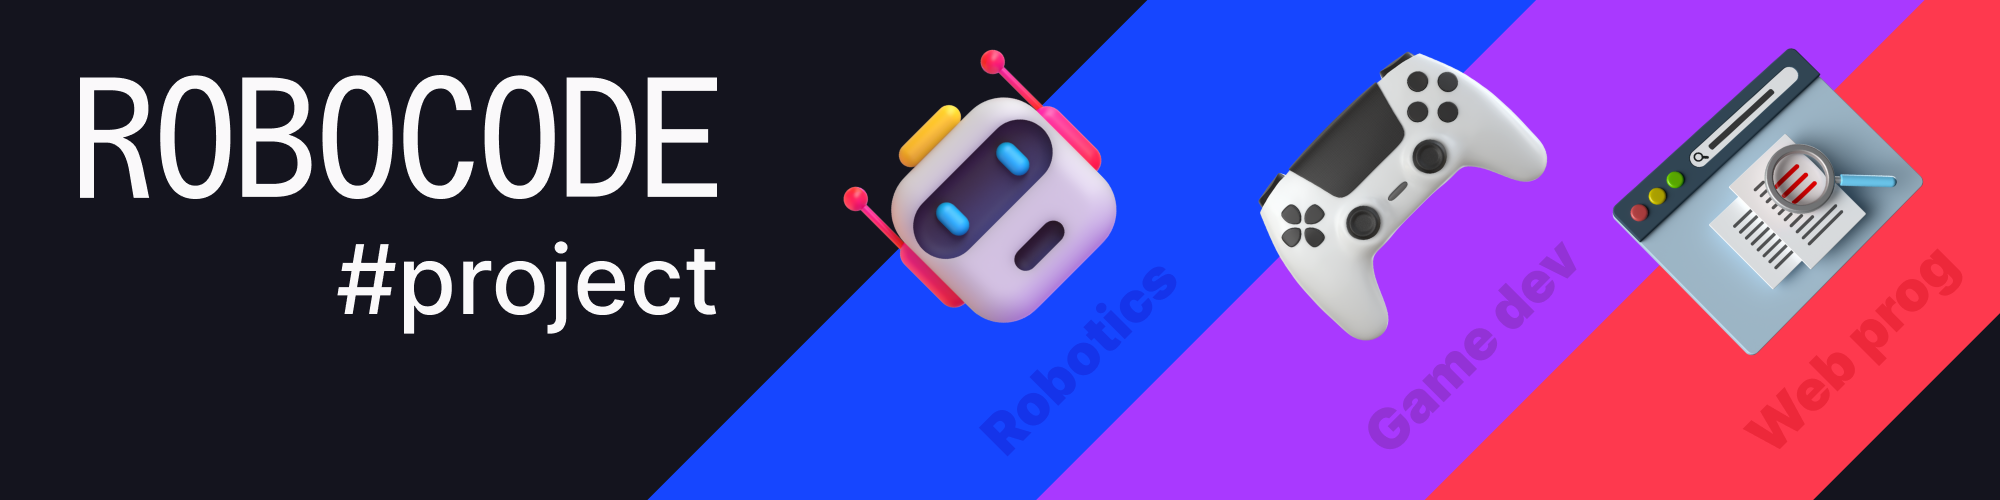
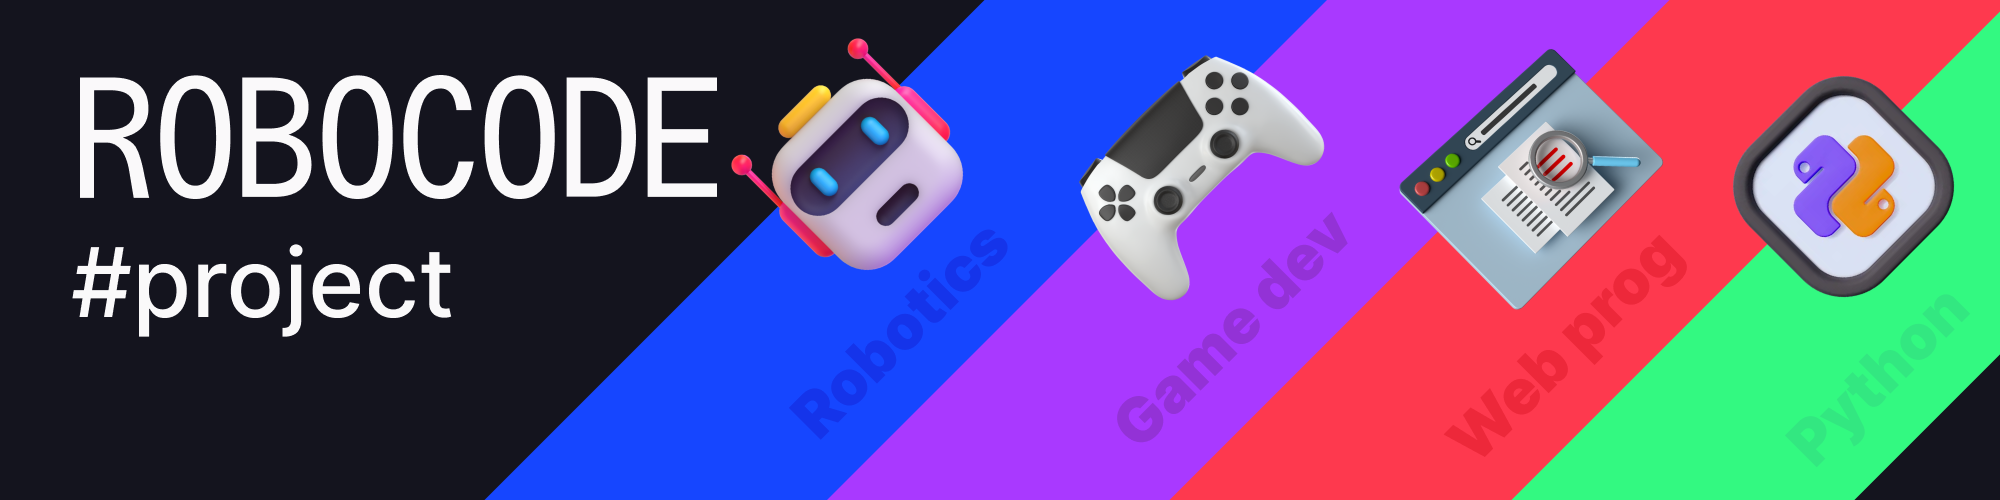
Оновлено лого та опис

diff --git a/README.md b/README.md
@@ -9,6 +9,5 @@
 - Назва:
 - Тематика: Фінансова грамотність
 - Жанр:
-
-Автор: Пономарчук Андрій
-Ментор: [Куцик Олександр Едуардович](mailto://kutsik.alexander@gmail.com)
+- Автор: Пономарчук Андрій
+- Ментор: [Куцик Олександр Едуардович](mailto://kutsik.alexander@gmail.com)
